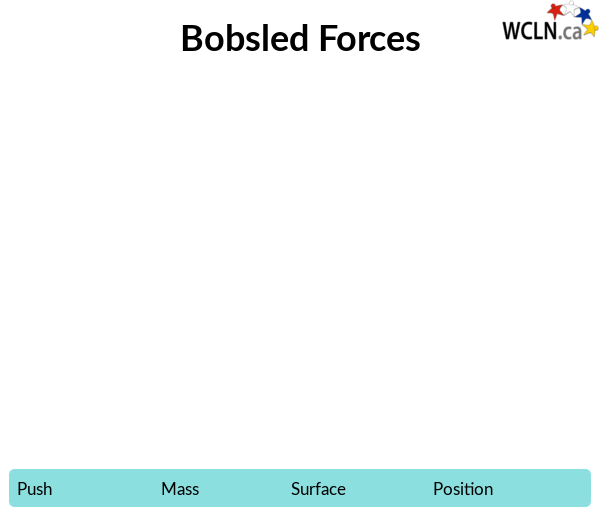
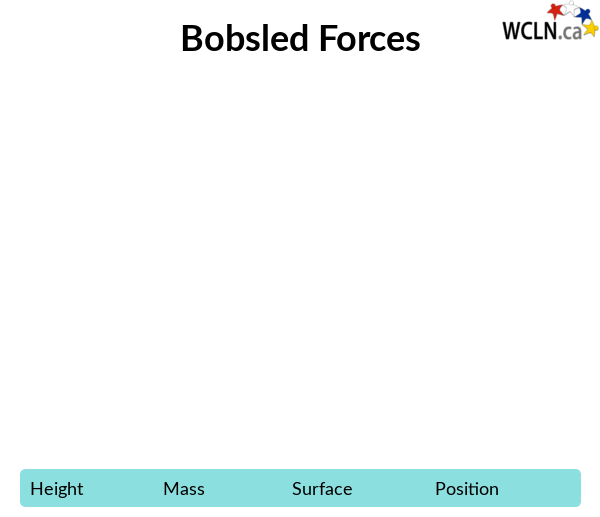
tweaked interface spacing

diff --git a/bobsled_energy.js b/bobsled_energy.js
@@ -99,7 +99,6 @@ function update(event) {
       } else {
         // update sled x position
         bobsled.x += displacement - last_displacement;
-        updateBobsledDudes();
 
         last_displacement = displacement;
       }
@@ -117,22 +116,9 @@ function endGame() {
 function initGraphics() {
 
   initMuteUnMuteButtons();
-  // push guy
-  var pushguyData = {
-    images: ["images/pushguy_sprite.png"],
-    frames: {width: 50, height: 65, count: 3, regX:0, regY: 0, spacing: 0, margin: 0},
-    animations: {
-      normal: 0,
-      push: [0, 2, false]
-    }
-  }
-  pushguy = new createjs.Sprite(new createjs.SpriteSheet(pushguyData));
-  pushguy.x = 0;
-  pushguy.y = 370;
-  pushguy.gotoAndPlay("normal");
-  //stage.addChild(pushguy);
 
 
+  // ramp
   ramp_low.y = ramp_med.y = ramp_high.y = 230;
   ramp_low.x = ramp_med.x = ramp_high.x = -65;
   stage.addChild(ramp_low);
@@ -154,12 +140,6 @@ function initGraphics() {
   bobsled.y = 340;
   bobsled.rotation = 46;
   stage.addChild(bobsled);
-
-
-//  updateBobsledDudes();
-
-  stage.addChild(bobsled);
-
 
 
   // OVERLAYED SELECT BOXES
@@ -260,7 +240,7 @@ function updateSelectPositions() {
     selectY = 478;
   }
 
-  heightSelect.x = gameCanvas.getBoundingClientRect().left + 65;
+  heightSelect.x = gameCanvas.getBoundingClientRect().left + 87;
   heightSelect.y = gameCanvas.getBoundingClientRect().top + selectY;
 
   massSelect.x = gameCanvas.getBoundingClientRect().left + 212;
@@ -299,11 +279,6 @@ function initListeners() {
   });
 }
 
-function updateBobsledDudes() {
-  for (var i = 0; i < 3; i++) {
-
-  }
-}
 
 /*
  * Add option elements to a select element
@@ -383,7 +358,6 @@ function updatePosition() {
   } else if (positionSelect.htmlElement.value == "Stand") {
     position_y = 0;
   }
-  updateBobsledDudes();
 }
 
 /*
@@ -413,10 +387,6 @@ function go() {
 
   last_displacement = 0;
 
-  // push guy animation
-  createjs.Tween.get(pushguy).call(function(){pushguy.gotoAndPlay("push")}).wait(700).call(function(){pushguy.gotoAndPlay("normal");});
-
-
   moving = true; // update method will run movement code now
 }
 
@@ -440,8 +410,6 @@ function reset() {
   bobsled.x = 20;
   bobsled.y = 360;
 
-  updateBobsledDudes();
-
   // add the go button to the stage
   stage.addChild(go_button);
 }
@@ -463,7 +431,6 @@ var bobsled_image;
 var go_button, reset_button, go_button_hover, reset_button_hover;
 var overlay;
 var backgrounds = [];
-var pushguy;
 var bobsled_dudes = [];
 var ramp_high, ramp_med, ramp_low;
 
